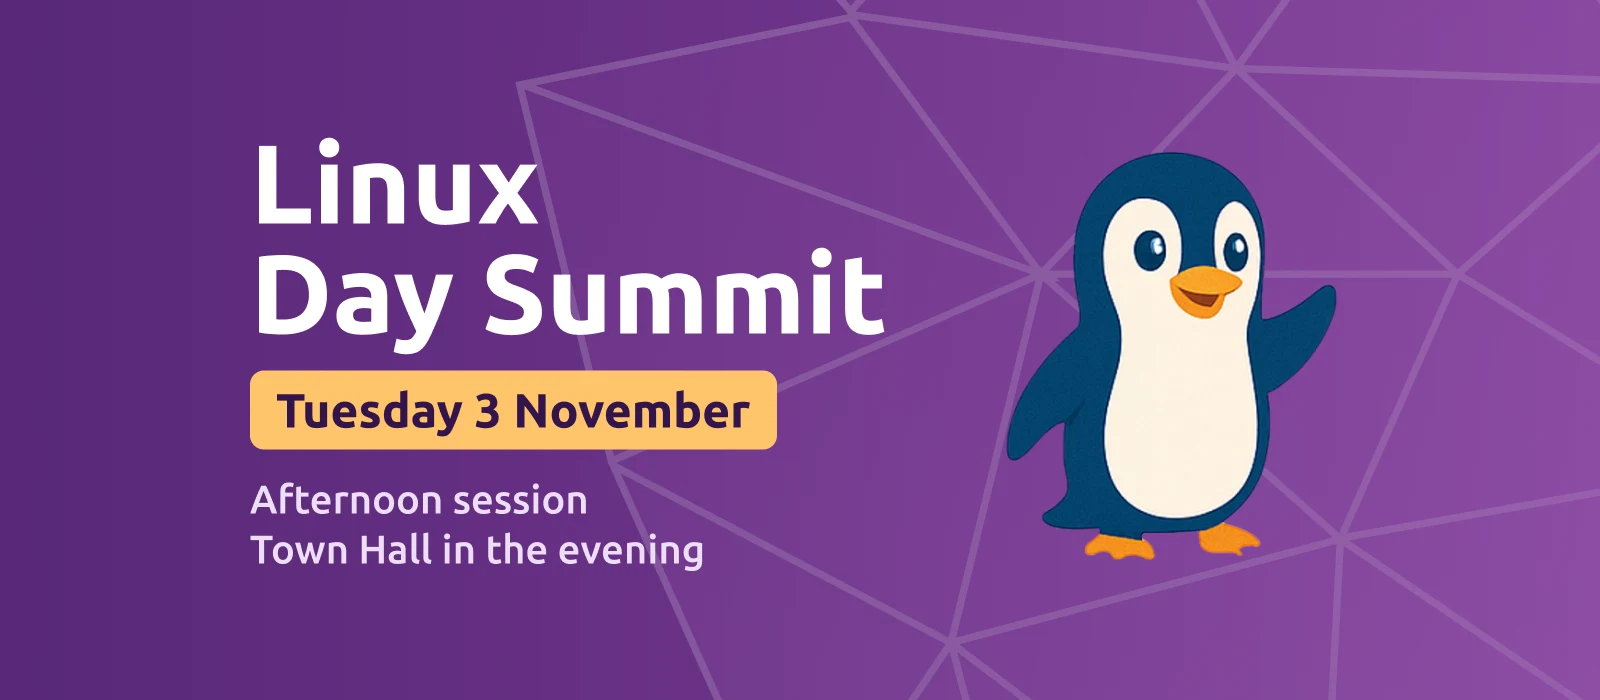
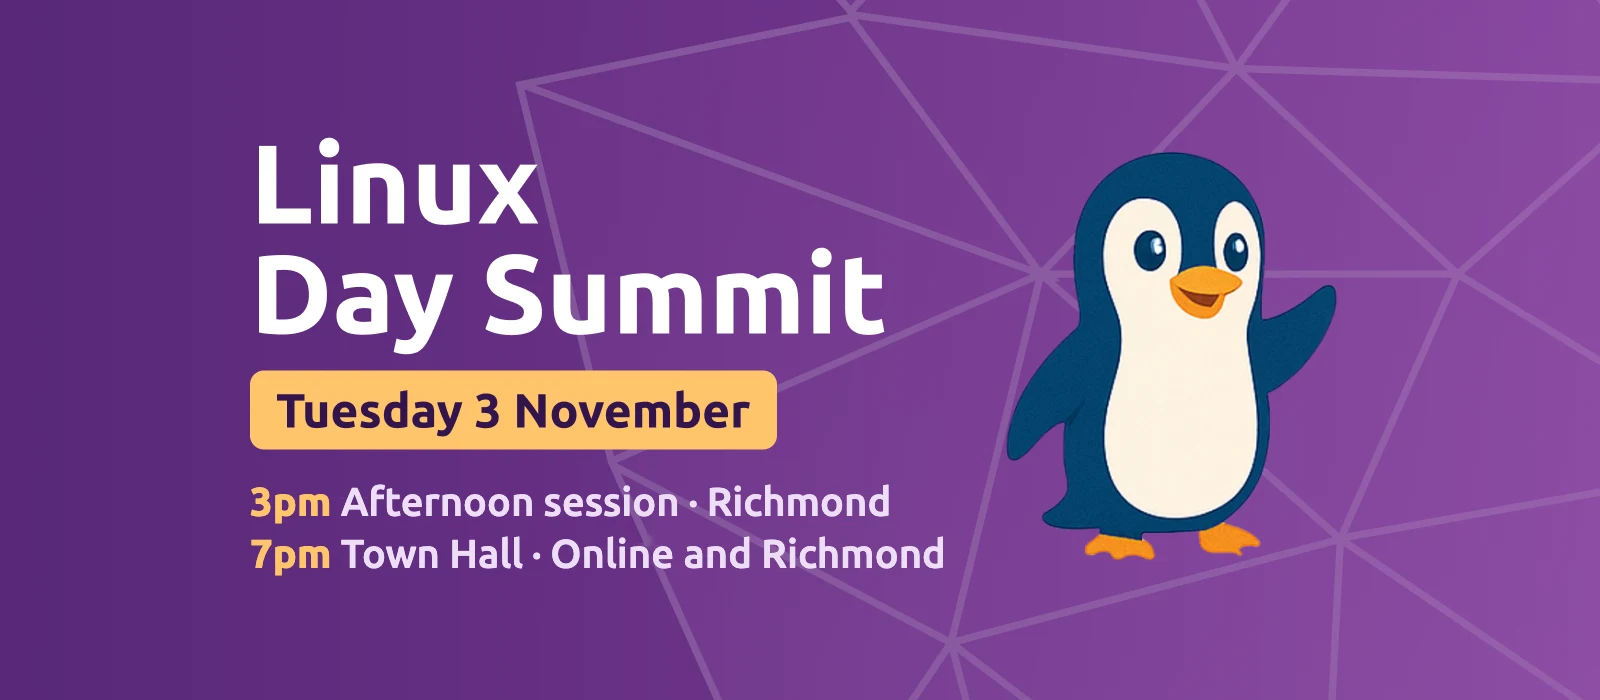
Shows Linux Day Summit times as sessions Contributes #184

Changed region(s): [[0.1562, 0.69, 0.5938, 0.84]]

diff --git a/CLAUDE.md b/CLAUDE.md
@@ -33,7 +33,7 @@ All Eleventy configuration lives in `.eleventy.js`.
 - `eventDate`, `startTime`, `endTime`, `location`, `featured`, optional `gallery`, optional `joinUrl`
 - `joinUrl` drives the site-wide "on now" bar (`partials/liveBar.njk` + `assets/js/live.js`) and the `/join` short link, via the `onlineEvents` collection
 - Optional `joinStartTime` / `joinEndTime` narrow that bar to the online part of a longer event (they fall back to `startTime` / `endTime`)
-- Optional `homeCardDateOnly: true` makes the home page card show only the date (no time or location)
+- Optional `sessions` (list of `time` + `place`) replaces the time and location lines on cards and the event page, for events split across sessions
 - All times are interpreted in `Australia/Sydney` timezone
 - The `.eleventy.js` end-time parser supports multiple formats: `HH:MM`, `HHMM`, 12-hour AM/PM
 

diff --git a/src/events/2026-11-03_Town-Hall-Meeting-November.md b/src/events/2026-11-03_Town-Hall-Meeting-November.md
@@ -10,7 +10,11 @@ endTime: 8:00 PM
 joinStartTime: 7:00 PM
 joinEndTime: 8:00 PM
 joinUrl: "https://electronworkshop.com.au/goto/venue"
-homeCardDateOnly: true
+sessions:
+  - time: 3pm
+    place: Richmond
+  - time: 7pm
+    place: Online and Richmond
 location: "Inspire9, Richmond and Online"
 ---
 
